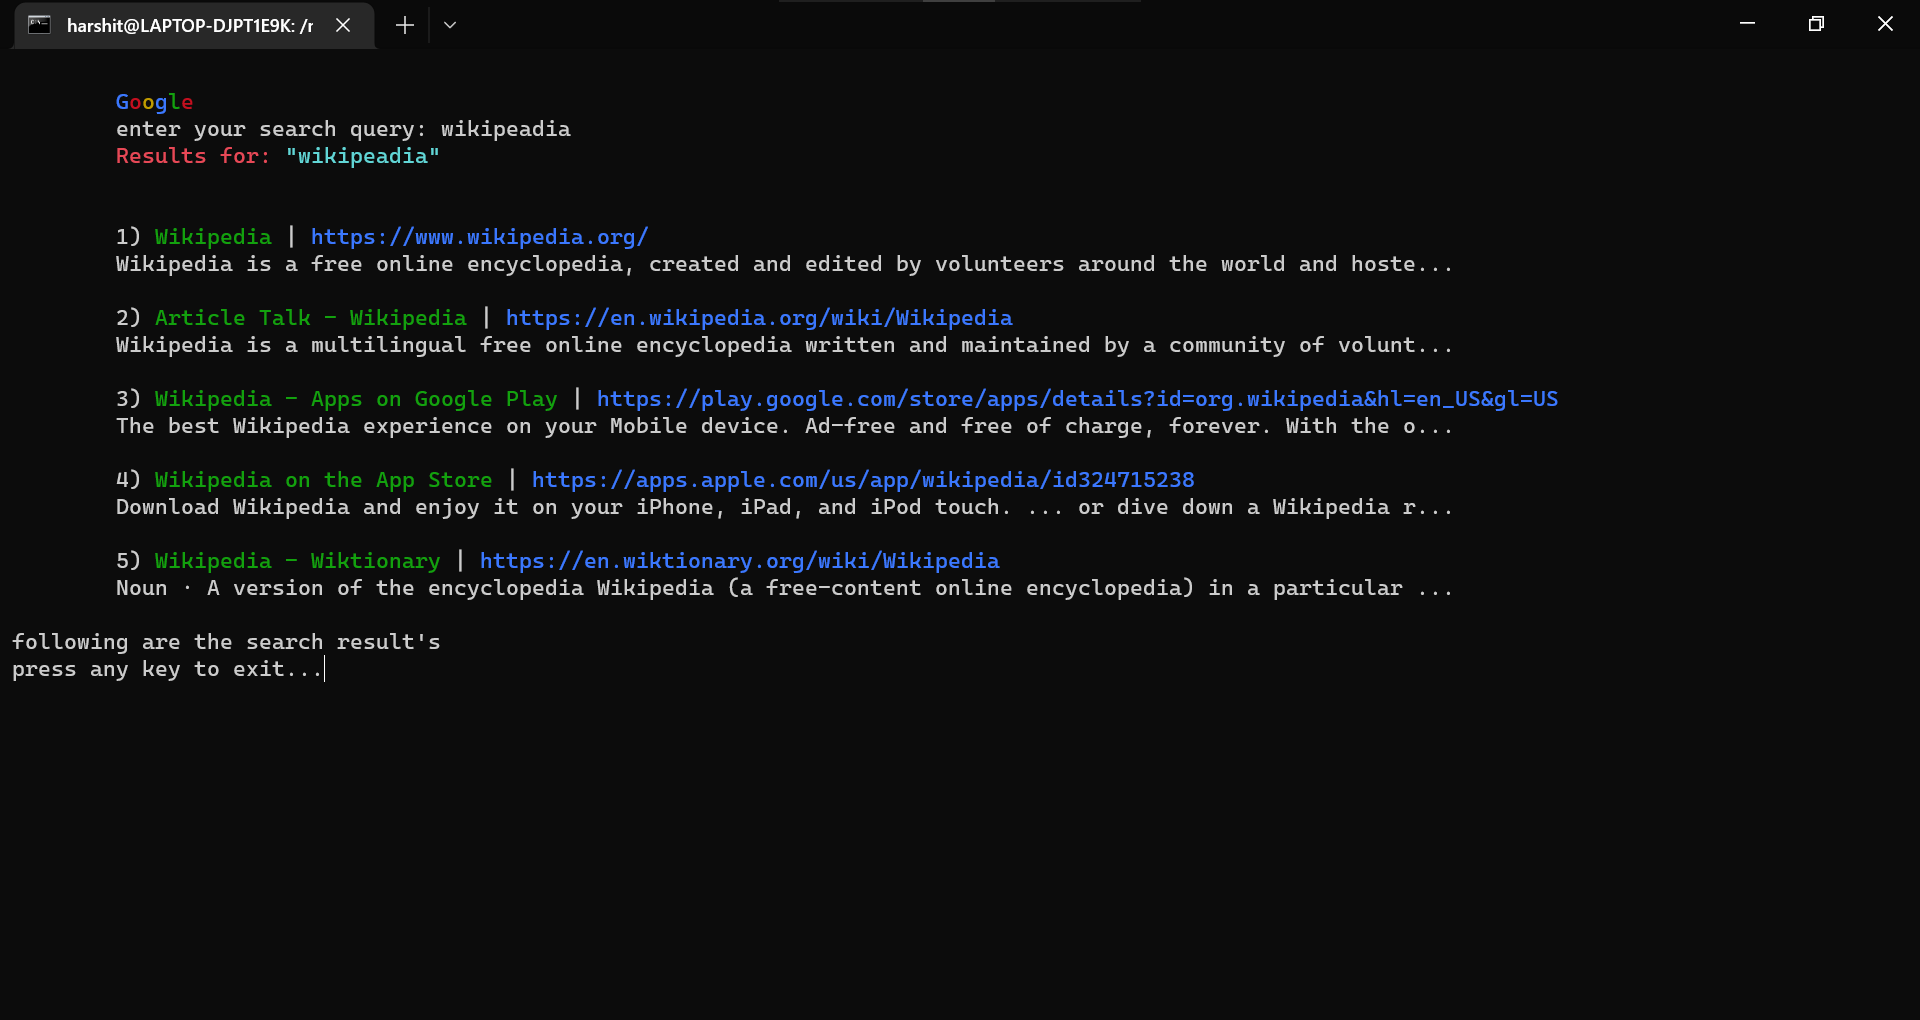
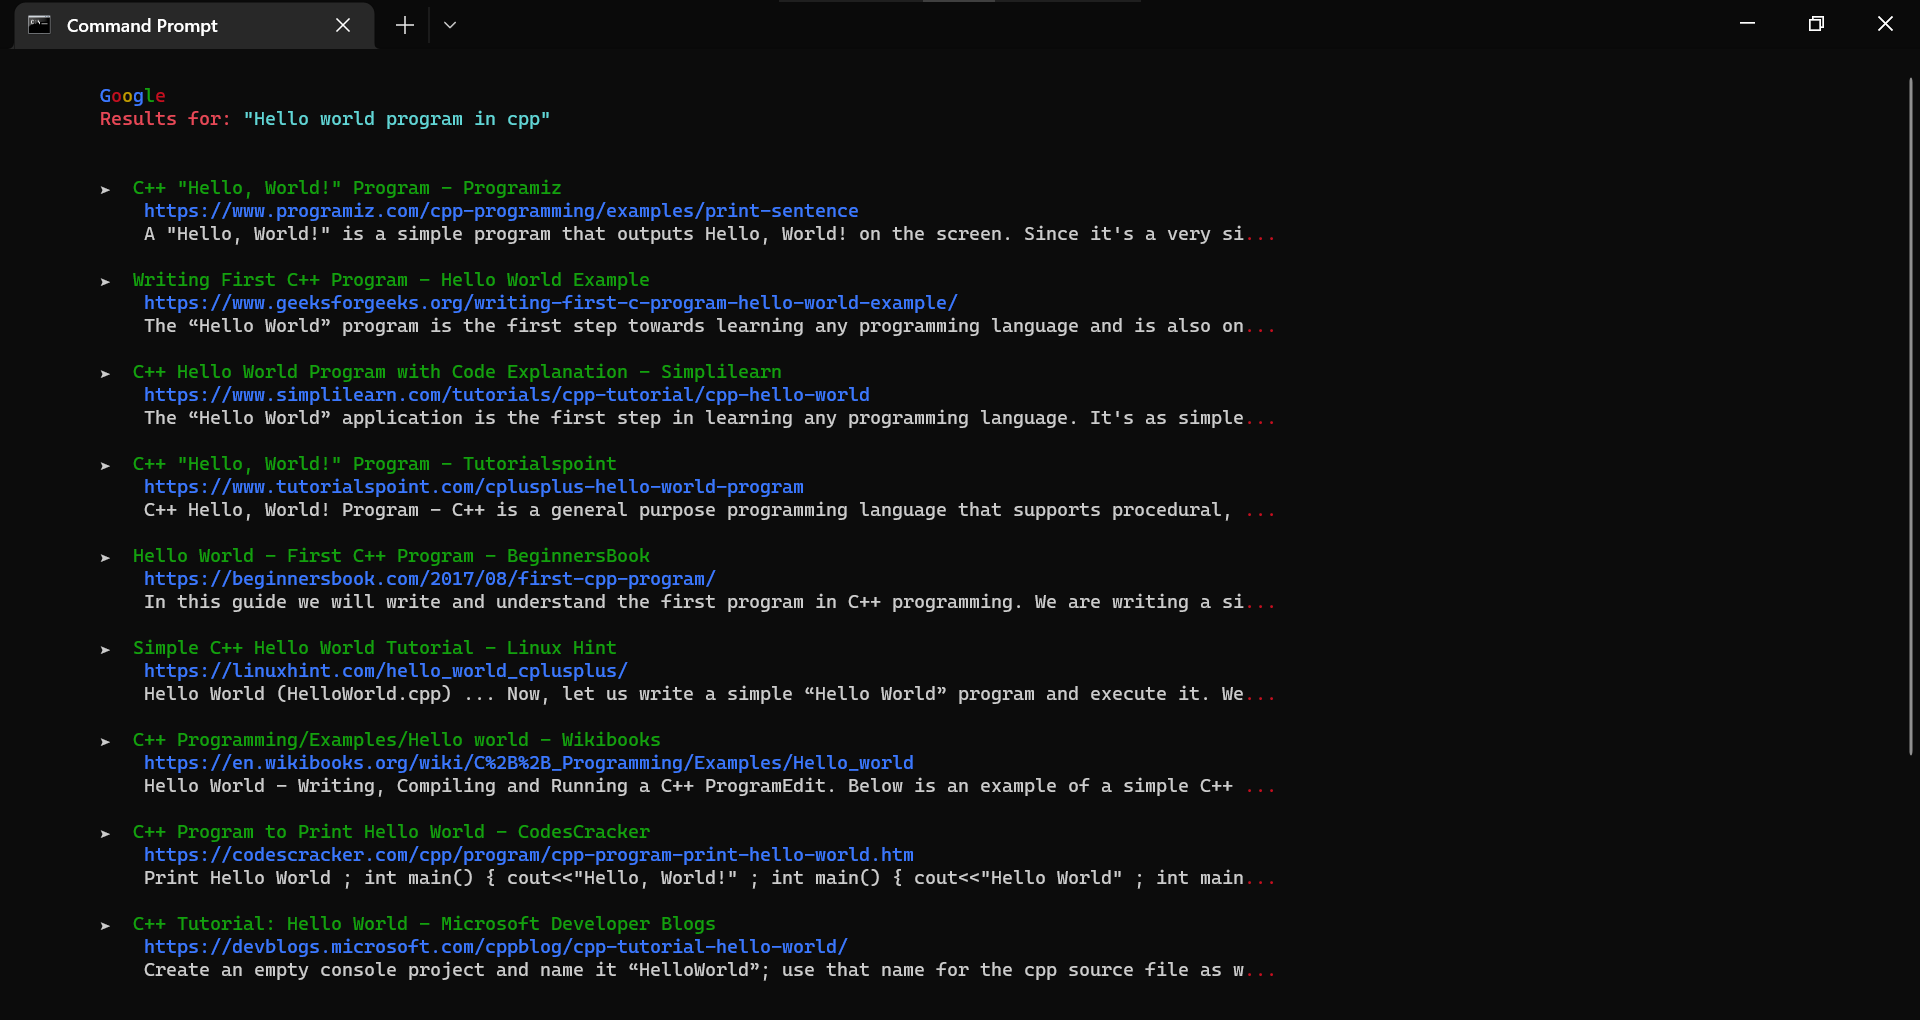
Update

Changed region(s): [[0.0, 0.0912, 0.8125, 0.9725], [0.0312, 0.0, 0.1562, 0.0304]]

diff --git a/src/main.py b/src/main.py
@@ -1,7 +1,11 @@
 import json
 import os
+import platform
 
-os.system("clear")
+if(platform.system() == 'Windows'):
+    os.system("cls")
+else:
+    os.system("clear")
 
 
 class colors:
@@ -17,8 +21,17 @@ class colors:
 
 
 google_text = f'{colors.BLUE}G{colors.ENDC}{colors.RED}o{colors.ENDC}{colors.YELLOW}o{colors.ENDC}{colors.BLUE}g{colors.ENDC}{colors.GREEN}l{colors.ENDC}{colors.RED}e{colors.ENDC}'
-print(f'\n\t{google_text}\t')
-query_search = input(f'\tenter your search query: ')
+
+
+UP = '\033[1A'
+CLEAR = '\x1b[2K'
+
+print(f'\n\t{google_text}')
+query_search = input(f'\tSearch: {colors.CYAN}')
+{colors.ENDC}
+
+print(UP, end=CLEAR)
+print(f'\t{colors.FAIL}Results for: {colors.CYAN}"{query_search}"\n{colors.ENDC}\n')
 
 query_search = query_search.replace(' ', '+')
 
@@ -35,8 +48,7 @@ json_data = json.load(json_file)
 
 START = 0
 END = len(json_data['organic_results'])
-print_query = query_search.replace('+', ' ')
-print(f'\t{colors.FAIL}Results for: {colors.CYAN}"{print_query}"\n{colors.ENDC}\n')
+
 
 for i in range(START, END):
     try:
@@ -44,11 +56,11 @@ for i in range(START, END):
         url = json_data['organic_results'][i]['link']
         description = json_data['organic_results'][i]['snippet']
         print(
-            f'\t{i+1}) {colors.GREEN}{title}{colors.ENDC} | {colors.BLUE}{url}{colors.ENDC}')
+            f'\t➤  {colors.GREEN}{title}{colors.ENDC}\n\t    {colors.BLUE}{url}{colors.ENDC}')
         if(description == ''):
             description = 'No description available'
         else:
-            print(f'\t{description[0:100]}{colors.RED}...{colors.ENDC}\n')
+            print(f'\t    {description[0:100]}{colors.RED}...{colors.ENDC}\n')
     except:
         pass
 
